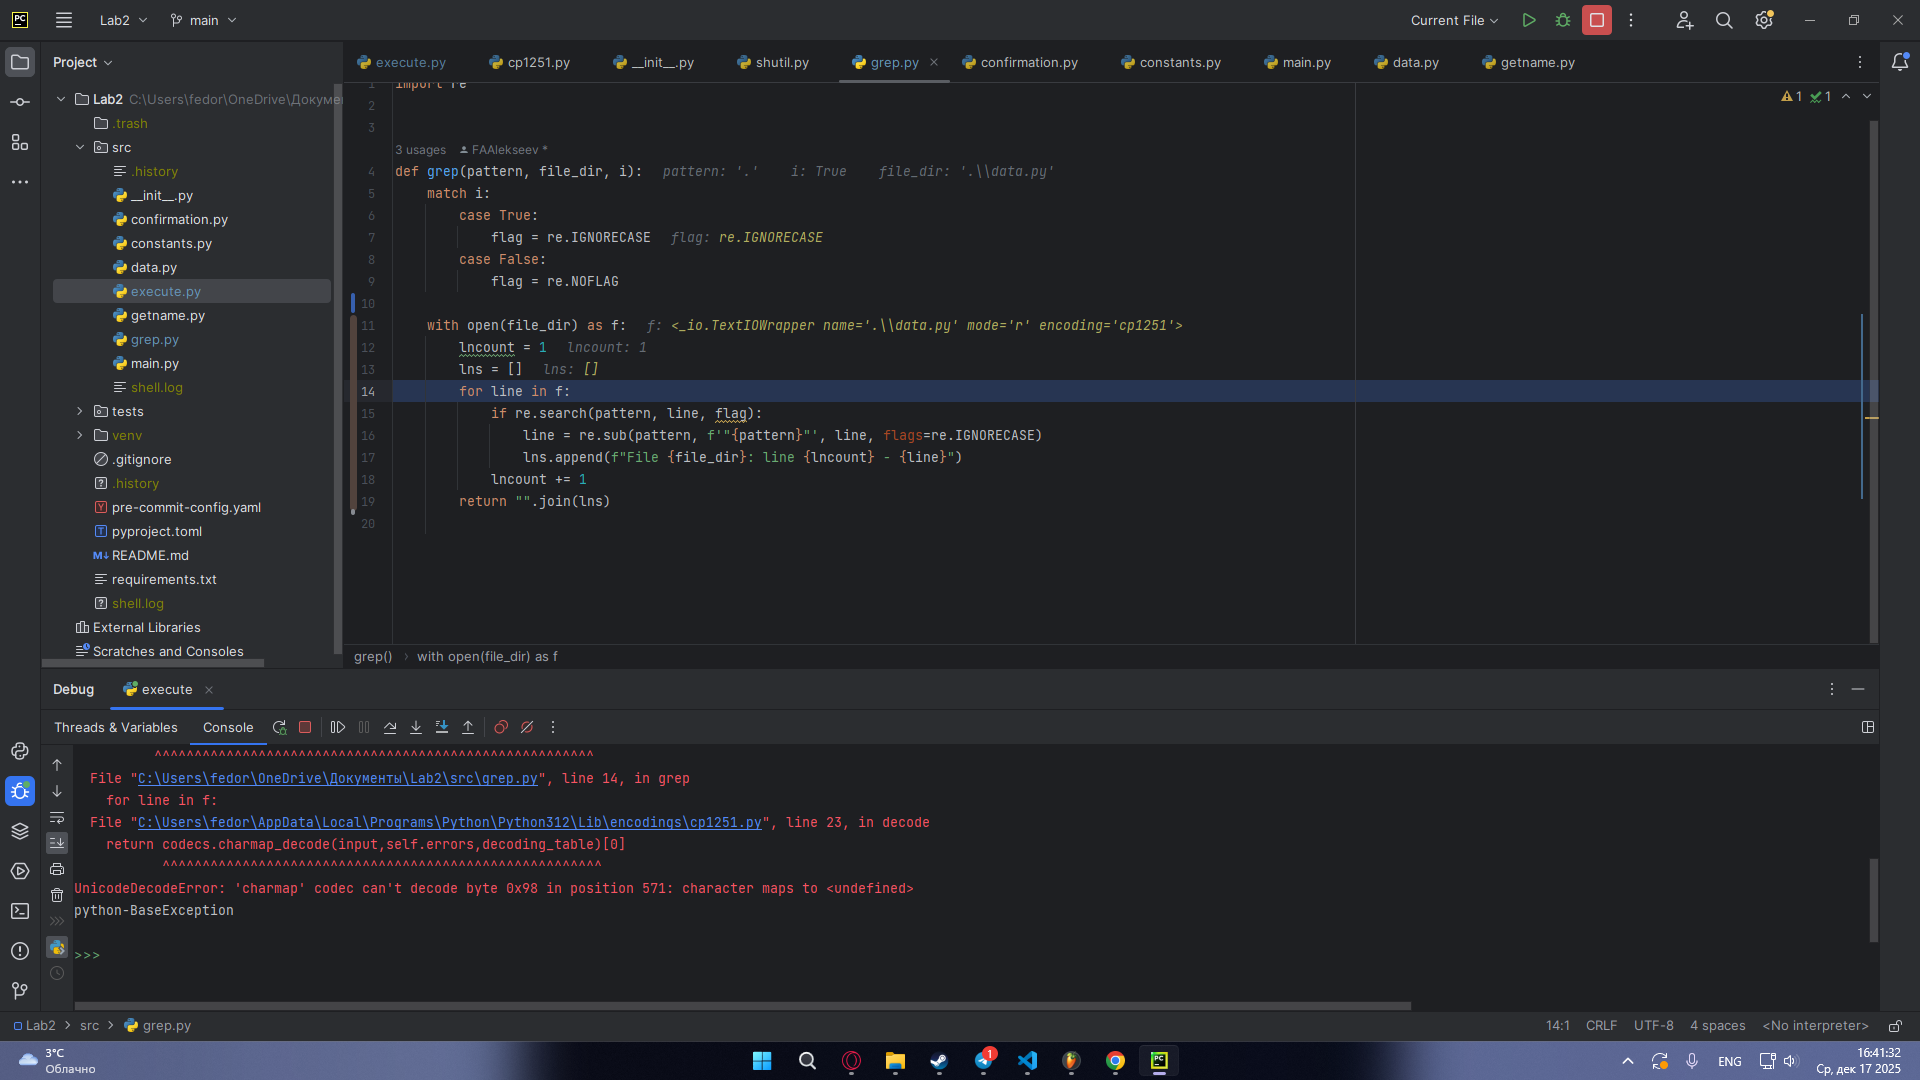
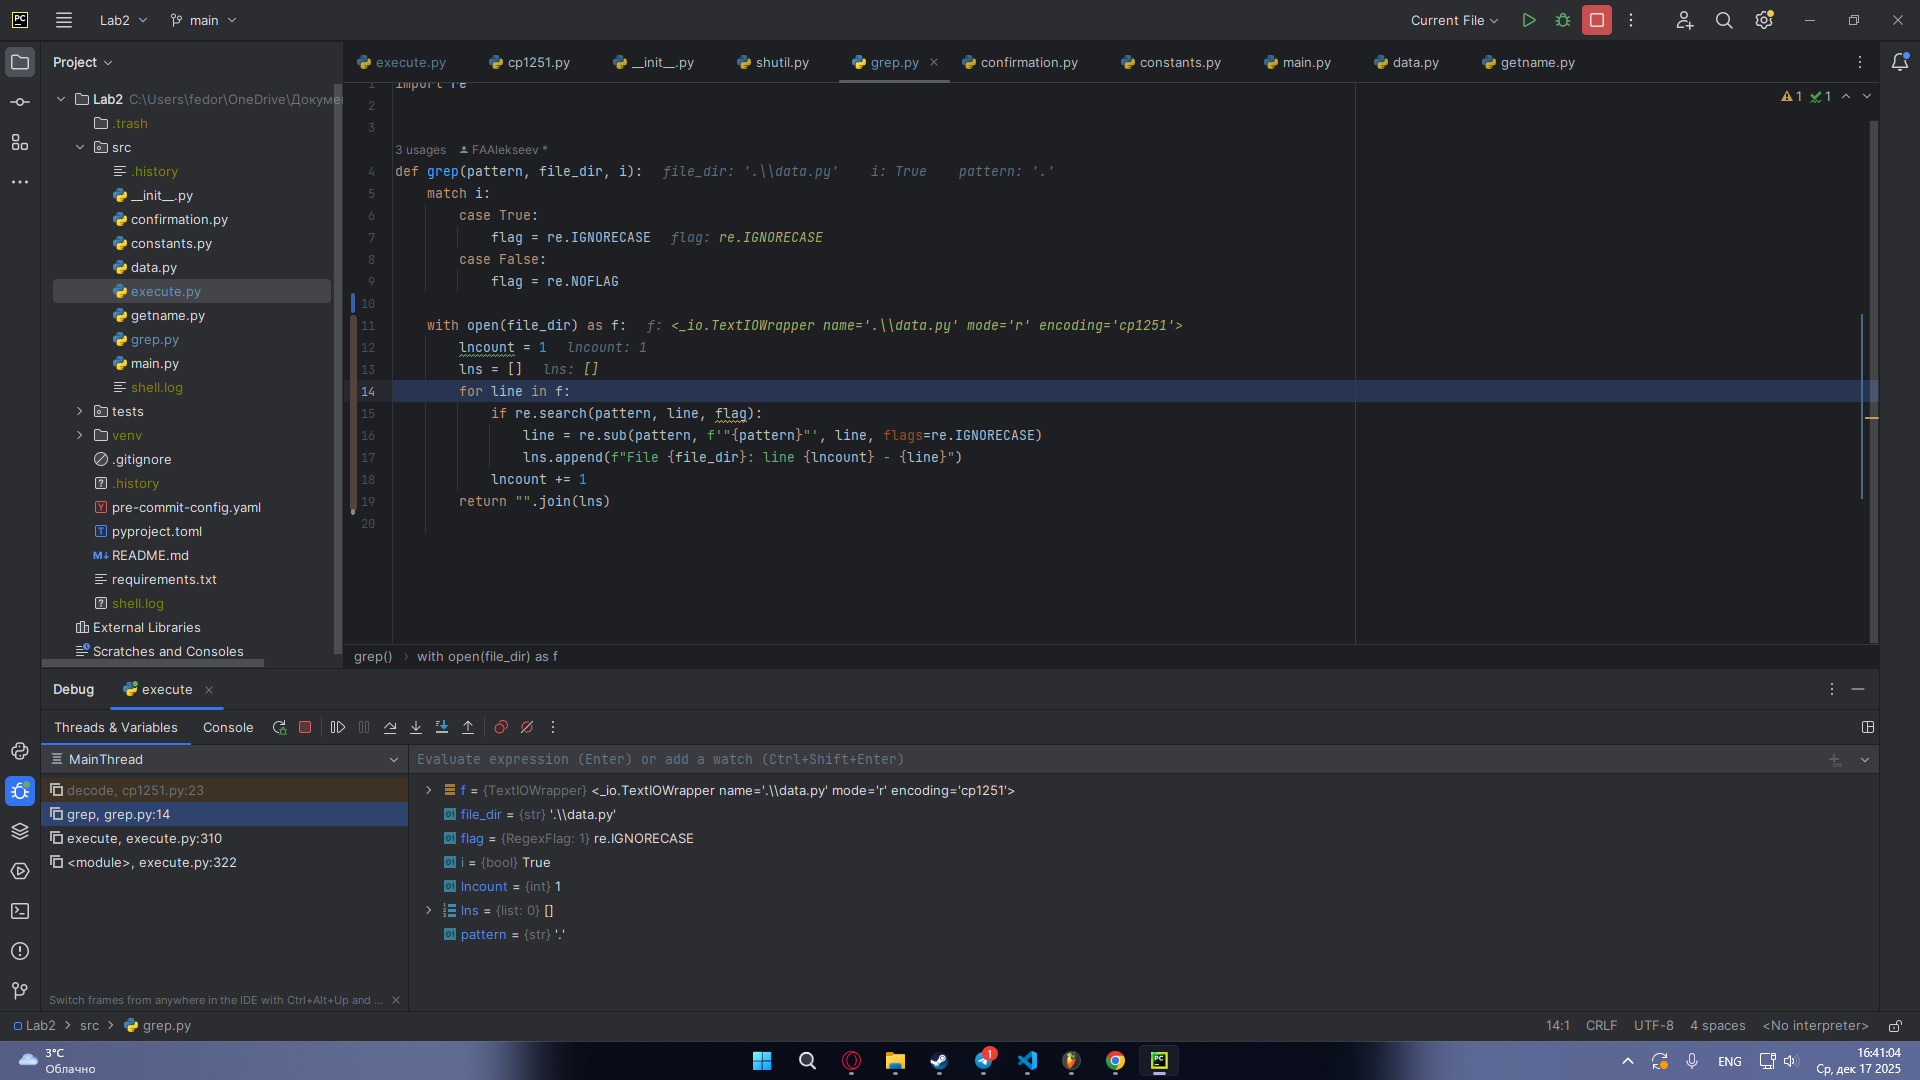
Update README and screenshots

diff --git a/README.md b/README.md
@@ -10,7 +10,6 @@ execute.py, метод execute: case "zip"/"tar"
 
 **Симптом:**
 
-
 Программа завершается с ошибкой при создании архива с недопустимыми символами на Windows.
 
 **Как воспроизвести:**
@@ -46,7 +45,7 @@ for sym in ["/", "\\", ":", "*", "?", '"', "<", ">", "|"]:
 - [error1_after.png](https://github.com/futoxyz/Lab5/blob/main/screenshots/error1_after.png)
 
 
-# Ошибка 2 — завершение программы при использованни grep
+# Ошибка 2 — проблема чтения при использованни grep
 
 **Место:** 
 
@@ -54,7 +53,7 @@ grep.py, метод grep
 
 **Симптом:**
 
-Программа завершается с ошибкой при использовании grep в определенной директории.
+Программа завершается с ошибкой при использовании grep в некоторой директории.
 
 **Как воспроизвести:**
 
@@ -101,6 +100,10 @@ data.py, метод undo() класса Data.
 
 При использовании undo после копирования каталога копия не всегда успешно удаляется на Windows.
 
+**Как воспроизвести:**
+
+На Windows: скопировать любой каталог в любой путь, затем прописать undo.
+
 **Отладка:**
 
 Установлен breakpoint на строке с удалением каталога. Ошибку возвращает операционная система.
@@ -121,38 +124,84 @@ shutil.move(self.sc_dir, os.path.join(self.init_dir, ".trash"))
 **Проверка:**
 
 Копия не удаляется полностью, а идет в корзину. Исходная директория, где лежала копия каталога, освобождается.
-Удалить полностью можно только вручную, ведь программа это сама никак не сделает.
 
 **Доказательства:**
 - [error3_debugger.png](https://github.com/futoxyz/Lab5/blob/main/screenshots/error3_debugger.png)
 - [error3_after.png](https://github.com/futoxyz/Lab5/blob/main/screenshots/error3_after.png)
 
-# Ошибка 4 —
+# Ошибка 4 — Копирование и удаление пути вместо простого перемещения при вызове rm
 **Место:**
+
+execute.py, метод execute()
 
 **Симптом:**
 
+Аналогично ошибке 3: код может вернуть ошибку удаления от Windows.
+
+**Как воспроизвести:**
+
+На Windows: удалить любой каталог.
+
 **Отладка:**
+
+breakpoint установлен на shutil.rmtree(), при выполнении Windows возвращает PermissionError.
 
 **Причина:**
 
+Вместо простого перемещения выполняется копирование и удаление, что не меняет результат и решает проблему.
+
 **Исправление:**
+
+Заменить на:
+```
+shutil.move(line.rm_dir, os.path.join(data.init_dir, ".trash"))
+```
 
 **Проверка:**
 
-**Доказательства:**
+ОС не вызывает ошибки, логика кода осталась неизменной.
 
-# Ошибка 5 —
+**Доказательства:**
+- [error4_debugger.png](https://github.com/futoxyz/Lab5/blob/main/screenshots/error4_debugger.png)
+- [error4_after.png](https://github.com/futoxyz/Lab5/blob/main/screenshots/error4_after.png)
+
+# Ошибка 5 — Проблема чтения с помощью cat.
 **Место:**
+
+execute.py, метод execute(), case cat.
 
 **Симптом:**
 
+Программа завершается с ошибкой при использовании cat с файлом, содержащим определенные файлы.
+
+**Как воспроизвести:**
+
+Использовать cat на нечитаемом файле (такие, например, можно найти в папках .venv или .idea).
+
 **Отладка:**
+
+breakpoint стоит на выводе строк. Программа не может их получить.
 
 **Причина:**
 
+Python не может прочитать файл.
+
 **Исправление:**
+
+Указание кодировки и исключение try except:
+```
+with open(line.file_dir, encoding='utf-8') as f:
+    try:
+        ...
+    except:
+        data.log(READFAIL)
+
+```
 
 **Проверка:**
 
+Программа дает ошибку вывода и не завершается.
+
 **Доказательства:**
+- [error5_debugger.png](https://github.com/futoxyz/Lab5/blob/main/screenshots/error5_debugger.png)
+- [error5_after.png](https://github.com/futoxyz/Lab5/blob/main/screenshots/error5_after.png)
